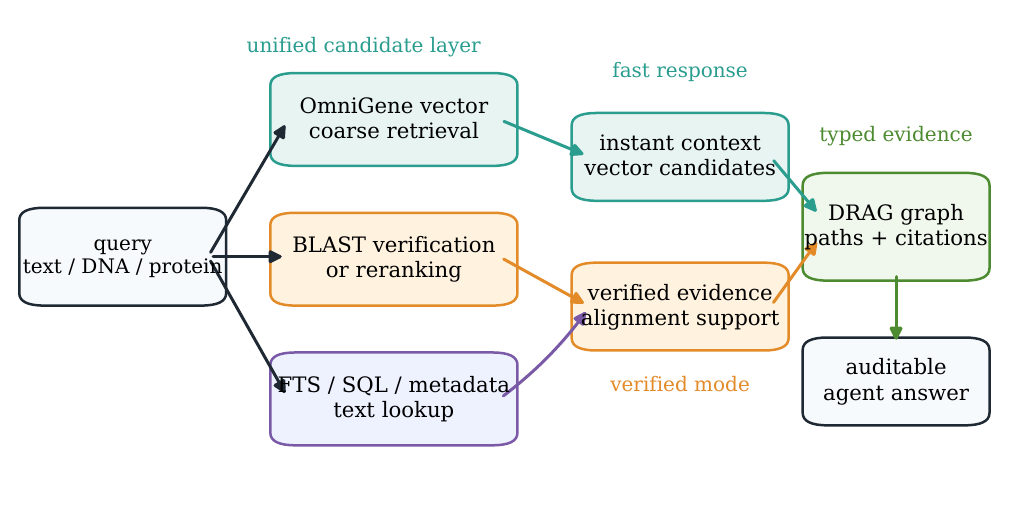
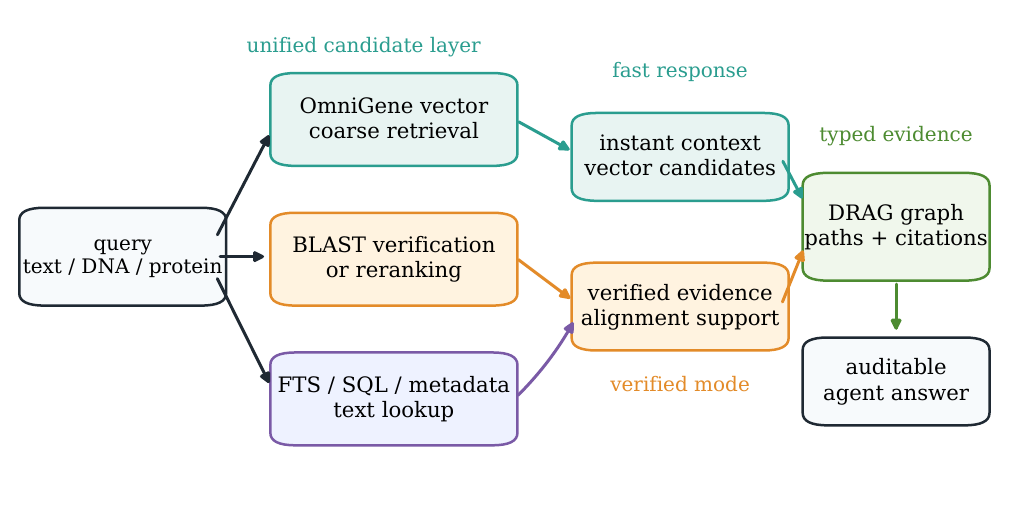
Fix Figure 1 arrow layout

diff --git a/figures/gen_fig1_architecture.py b/figures/gen_fig1_architecture.py
@@ -26,10 +26,12 @@ def arrow(ax, start, end, color=COLORS["dark"], rad=0.0, lw=1.2):
         start,
         end,
         arrowstyle="-|>",
-        mutation_scale=10,
+        mutation_scale=8,
         linewidth=lw,
         color=color,
         connectionstyle=f"arc3,rad={rad}",
+        shrinkA=2,
+        shrinkB=3,
     )
     ax.add_patch(arr)
 
@@ -52,15 +54,15 @@ def main():
     box(ax, (0.81, 0.47), (0.15, 0.18), "DRAG graph\npaths + citations", "#F0F7EC", COLORS["green"])
     box(ax, (0.81, 0.18), (0.15, 0.14), "auditable\nagent answer", "#F7FAFC")
 
-    arrow(ax, (0.20, 0.50), (0.28, 0.775))
-    arrow(ax, (0.20, 0.50), (0.28, 0.50))
-    arrow(ax, (0.20, 0.50), (0.28, 0.215))
-    arrow(ax, (0.49, 0.775), (0.58, 0.70), COLORS["teal"])
-    arrow(ax, (0.49, 0.50), (0.58, 0.40), COLORS["orange"])
-    arrow(ax, (0.49, 0.215), (0.58, 0.40), COLORS["purple"], rad=0.08)
-    arrow(ax, (0.76, 0.70), (0.81, 0.58), COLORS["teal"])
-    arrow(ax, (0.76, 0.40), (0.81, 0.54), COLORS["orange"])
-    arrow(ax, (0.885, 0.47), (0.885, 0.32), COLORS["green"])
+    arrow(ax, (0.207, 0.535), (0.265, 0.76))
+    arrow(ax, (0.207, 0.50), (0.265, 0.50))
+    arrow(ax, (0.207, 0.465), (0.265, 0.23))
+    arrow(ax, (0.505, 0.775), (0.568, 0.705), COLORS["teal"])
+    arrow(ax, (0.505, 0.50), (0.568, 0.405), COLORS["orange"])
+    arrow(ax, (0.505, 0.215), (0.568, 0.385), COLORS["purple"], rad=0.08)
+    arrow(ax, (0.770, 0.70), (0.796, 0.60), COLORS["teal"])
+    arrow(ax, (0.770, 0.40), (0.796, 0.53), COLORS["orange"])
+    arrow(ax, (0.885, 0.455), (0.885, 0.335), COLORS["green"])
 
     ax.text(0.355, 0.91, "unified candidate layer", ha="center", fontsize=8, color=COLORS["teal"])
     ax.text(0.67, 0.86, "fast response", ha="center", fontsize=8, color=COLORS["teal"])
